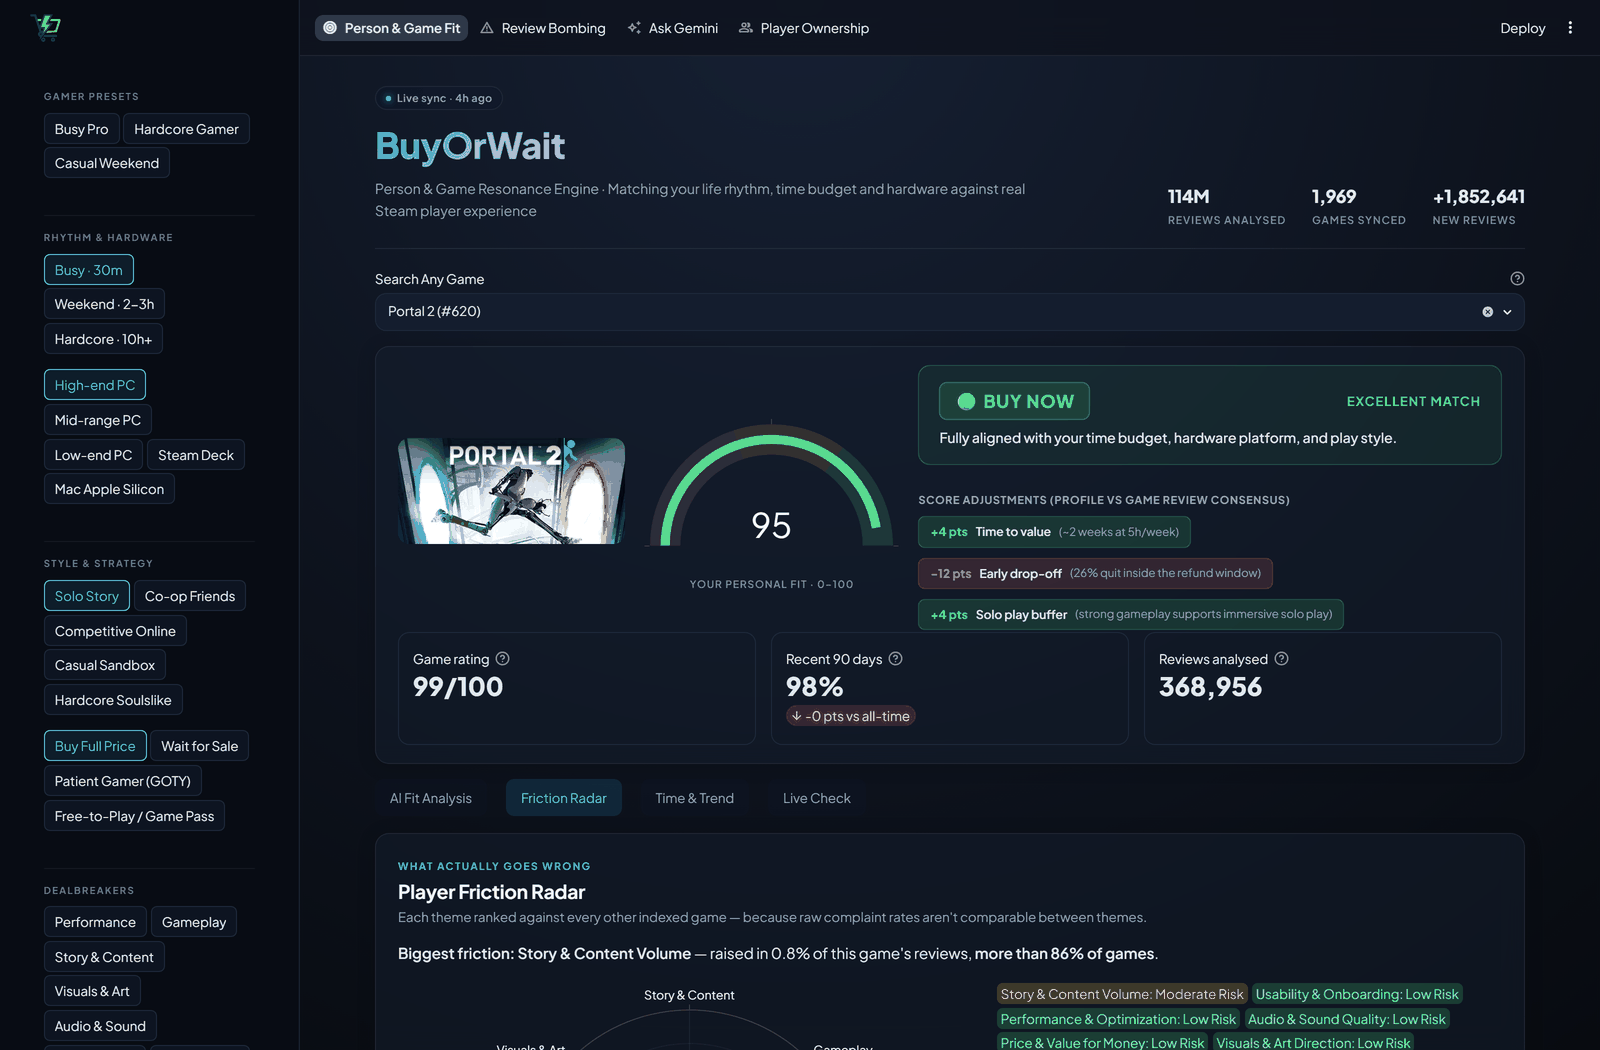
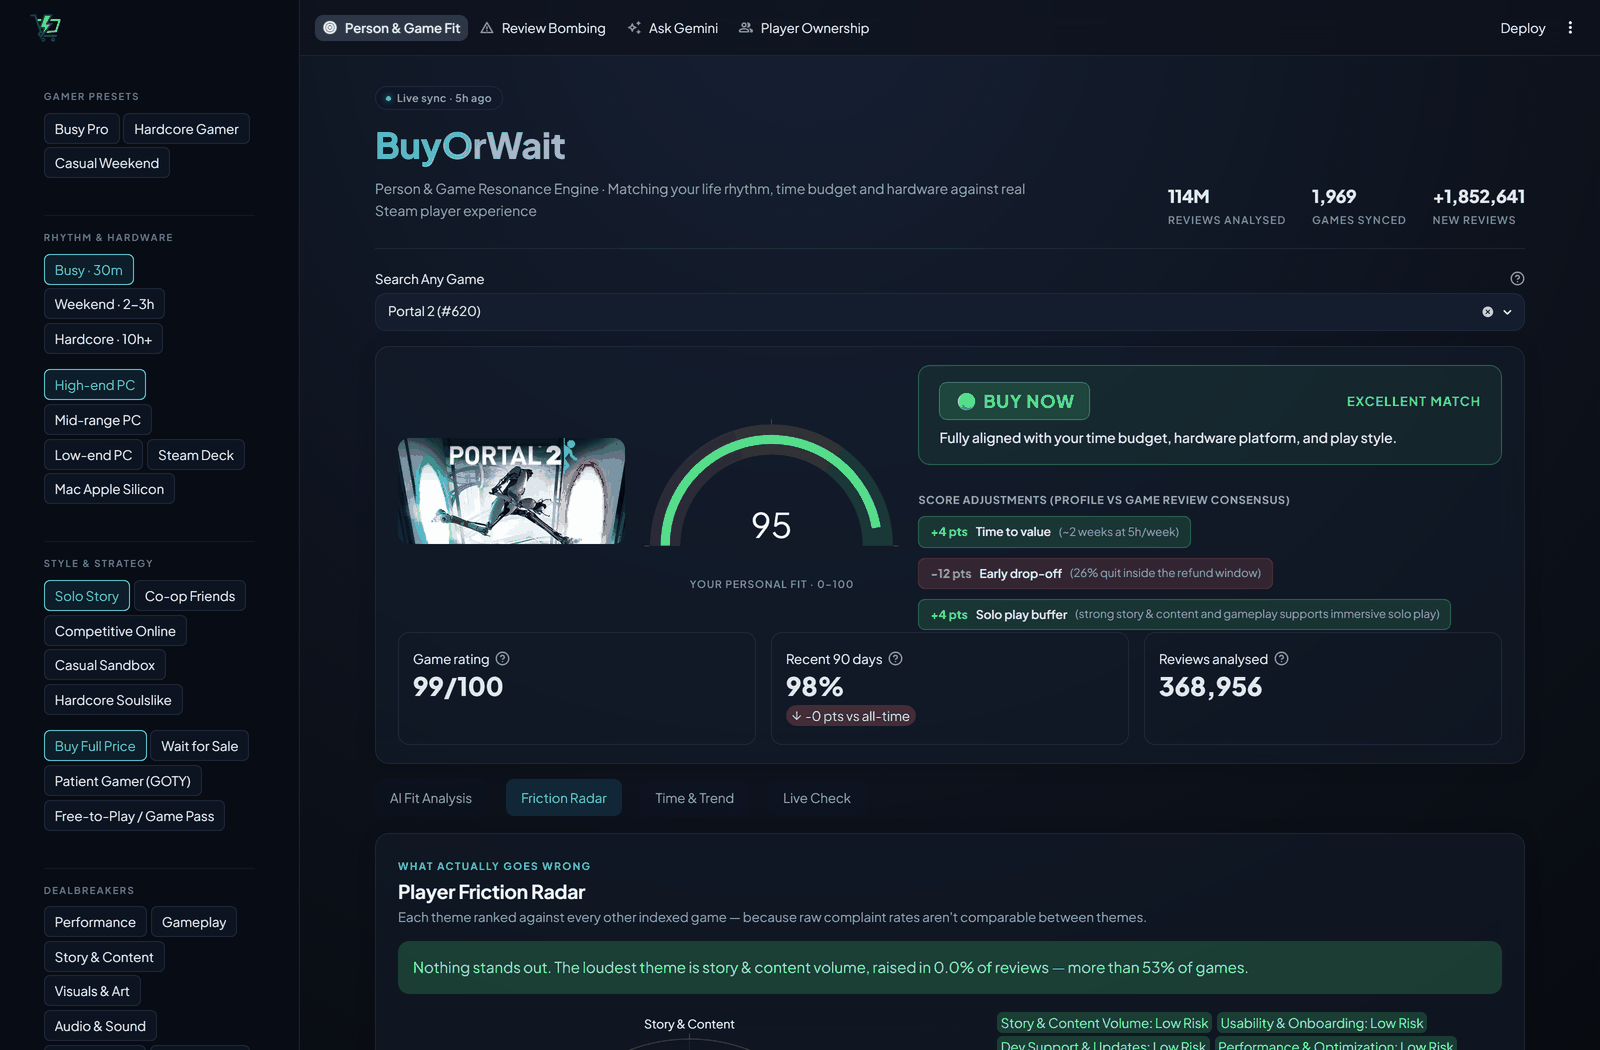
fix(radar): normalise friction against the real review population
The radar ranked the best-rated games as the most troubled. Measured over all 349
indexed games, a game's worst-dimension percentile correlated +0.22 with its own
purchase-confidence score — the wrong sign. Overwatch 2 (score 15.7) came out clean
on all eight dimensions while The Walking Dead (98.7) was flagged High Risk.

The cause was not the semantic matching. embed_index.py builds review_vectors as a
deliberately BALANCED sample — `.groupby(["appid","pol"]).head(PER_GAME//2)` takes up
to 400 reviews of each polarity per game — so the positive/negative mix of the vector
table describes the sampler, not the game. Dividing on-topic negative matches by the
full vector count therefore measured the sampling: Portal 2's sample is 65% negative
and Overwatch 2's is 39%, the inverse of their real sentiment. A first guess that bad
games simply attract shorter, less articulate reviews was tested and rejected — mean
negative-review length correlates +0.003 with score.

Prevalence is now negative_rate x (on-topic negatives / ALL indexed negatives): the
severity term comes from raw_pos_rate in game_scores, computed over every review of
the game, and only the composition term — which theme the complaints are about — comes
from the sample, which is what a balanced sample can legitimately estimate. Three
normalisations were compared over the full corpus:

    matches / total_vectors  (before)   corr +0.224
    matches / negatives      (composition)  +0.136
[…]

diff --git a/app/app.py b/app/app.py
@@ -1368,15 +1368,25 @@ MODERATE_FLOOR = 0.5
 def radar_baseline() -> dict:
     """Per-theme distribution of complaint prevalence across every indexed game.
 
-    A single flat threshold cannot grade these axes. Measured over all 349 indexed
-    games, "Dev Support & Updates" clears 3% of reviews in 226 of them while
-    "Server & Disconnects" clears it in 14 — so a 3% rule called two thirds of all
-    games High Risk on one axis and almost none on another, and every radar came out
-    the same shape. Grading each axis against its own corpus spread is what makes the
-    shape carry information.
+    Two things this has to get right.
+
+    1. Each axis is graded against its own spread, never a flat share. The themes have
+       base rates that differ by an order of magnitude, so one fixed threshold grades
+       every game identically and every radar comes out the same shape.
+
+    2. The prevalence is `negative_rate x (on-topic negatives / ALL indexed negatives)`,
+       NOT `on-topic negatives / all indexed vectors`. review_vectors is a deliberately
+       balanced sample — embed_index.py takes up to PER_GAME/2 reviews of each polarity
+       per game — so its positive/negative mix reflects the sampler, not the game.
+       Dividing by the full vector count therefore measured the sampling: Portal 2's
+       sample is 65% negative and Overwatch 2's is 39%, the inverse of reality, and the
+       radar ranked the best-rated games as the most troubled. Measured over 349 games,
+       the worst-axis percentile correlated +0.22 with the game's own score; taking the
+       negative rate from game_scores (computed over all 114M reviews) and only the
+       topic composition from the sample turns that to -0.44.
 
     Returns {dim: [101 ascending percentile boundaries]}; {} if the query fails, in
-    which case the caller falls back to raw share.
+    which case the caller falls back to DEFAULT_BASELINE.
     """
     struct_params = [
         bigquery.StructQueryParameter(
@@ -1391,7 +1401,7 @@ def radar_baseline() -> dict:
         maximum_bytes_billed=8 * 1024 ** 3)
     sql = f"""
         WITH v AS (SELECT appid, embedding, voted_up FROM {T('review_vectors')}),
-        tot AS (SELECT appid, COUNT(*) AS n FROM v GROUP BY appid),
+        neg AS (SELECT appid, COUNTIF(NOT voted_up) AS n_neg FROM v GROUP BY appid),
         d AS (
           SELECT q.dim AS dim, v.appid AS appid,
                  COUNTIF(ML.DISTANCE(v.embedding, q.qv, 'COSINE') < {STRONG_DIST}) AS strong
@@ -1399,8 +1409,15 @@ def radar_baseline() -> dict:
           WHERE v.voted_up = FALSE
           GROUP BY dim, appid
         )
-        SELECT d.dim, APPROX_QUANTILES(SAFE_DIVIDE(d.strong, t.n) * 100, 100) AS qs
-        FROM d JOIN tot t USING (appid) GROUP BY d.dim"""
+        SELECT d.dim,
+               APPROX_QUANTILES(
+                 (1 - s.raw_pos_rate / 100) * SAFE_DIVIDE(d.strong, n.n_neg) * 100,
+                 100) AS qs
+        FROM d
+        JOIN neg n USING (appid)
+        JOIN {T('game_scores')} s USING (appid)
+        WHERE s.raw_pos_rate IS NOT NULL AND n.n_neg > 0
+        GROUP BY d.dim"""
     try:
         df = _client().query(sql, job_config=cfg).to_dataframe()
     except Exception:
@@ -1408,15 +1425,29 @@ def radar_baseline() -> dict:
     return {r.dim: [float(x) for x in r.qs] for r in df.itertuples()}
 
 
+# Fallback used only when radar_baseline()'s query fails. These are the real measured
+# deciles (p0, p10 ... p100) over all 349 indexed games, not straight lines: the true
+# distributions are steeply skewed — Gameplay's median is 2.4% while Usability's is 0.0%
+# — so a linear ramp put every game in roughly the same percentile band, which is the
+# failure mode this whole baseline exists to avoid. Regenerate from radar_baseline() if
+# the dimension set or STRONG_DIST changes.
 DEFAULT_BASELINE = {
-    "Performance & Optimization": [i * 0.20 for i in range(101)],
-    "Gameplay & Controls": [i * 0.15 for i in range(101)],
-    "Story & Content Volume": [i * 0.12 for i in range(101)],
-    "Visuals & Art Direction": [i * 0.08 for i in range(101)],
-    "Audio & Sound Quality": [i * 0.06 for i in range(101)],
-    "Price & Value for Money": [i * 0.18 for i in range(101)],
-    "Dev Support & Updates": [i * 0.22 for i in range(101)],
-    "Usability & Onboarding": [i * 0.10 for i in range(101)],
+    "Performance & Optimization":
+        [0.0, 0.029, 0.066, 0.116, 0.204, 0.291, 0.478, 0.690, 1.261, 2.419, 8.068],
+    "Gameplay & Controls":
+        [0.044, 0.679, 1.087, 1.537, 1.956, 2.438, 3.167, 4.327, 5.897, 7.532, 19.466],
+    "Story & Content Volume":
+        [0.0, 0.0, 0.0, 0.0, 0.019, 0.039, 0.060, 0.097, 0.180, 0.308, 1.851],
+    "Visuals & Art Direction":
+        [0.0, 0.041, 0.072, 0.118, 0.173, 0.227, 0.324, 0.453, 0.674, 1.270, 4.339],
+    "Audio & Sound Quality":
+        [0.0, 0.071, 0.156, 0.242, 0.322, 0.460, 0.632, 0.825, 1.240, 1.991, 4.890],
+    "Price & Value for Money":
+        [0.078, 0.530, 0.746, 1.020, 1.426, 2.086, 2.694, 3.488, 4.866, 7.207, 19.255],
+    "Dev Support & Updates":
+        [0.0, 0.0, 0.0, 0.0, 0.014, 0.031, 0.050, 0.086, 0.128, 0.222, 2.515],
+    "Usability & Onboarding":
+        [0.0, 0.0, 0.0, 0.0, 0.0, 0.0, 0.0, 0.004, 0.024, 0.050, 0.594],
 }
 
 
@@ -1494,7 +1525,13 @@ def friction_radar(appid: int) -> tuple[dict, list]:
         SELECT dim,
                COUNTIF(dist < {STRONG_DIST}) AS strong,
                ARRAY_AGG(text ORDER BY dist LIMIT 3) AS texts,
-               (SELECT COUNT(*) FROM {T('review_vectors')} WHERE appid = @a) AS total_vec
+               -- Per polarity, never the combined count: review_vectors is a balanced
+               -- sample (embed_index caps each polarity separately), so the totals ratio
+               -- describes the sampler rather than the game. See radar_baseline.
+               (SELECT COUNTIF(NOT voted_up) FROM {T('review_vectors')}
+                 WHERE appid = @a) AS n_neg,
+               (SELECT COUNTIF(voted_up) FROM {T('review_vectors')}
+                 WHERE appid = @a) AS n_pos
         FROM scored GROUP BY dim"""
     try:
         df = _client().query(sql, job_config=cfg).to_dataframe()
@@ -1506,7 +1543,7 @@ def friction_radar(appid: int) -> tuple[dict, list]:
     # Fetch real behavioral telemetry data
     try:
         telemetry = q(f"""
-            SELECT s.refund_zone_pct, s.pos_median_hours, c.purchase_pct,
+            SELECT s.refund_zone_pct, s.pos_median_hours, s.raw_pos_rate, c.purchase_pct,
                    (SELECT COUNT(*) FROM {T('alerts')} WHERE appid = @a) AS alert_count
             FROM {T('game_scores')} s
             LEFT JOIN {T('game_composition')} c ON s.appid = c.appid
@@ -1525,7 +1562,17 @@ def friction_radar(appid: int) -> tuple[dict, list]:
     days_since_last = dev_news.get("days_since_last")
     recent_patches = dev_news.get("recent_180d_patches", 0)
 
-    total = int(df.iloc[0].total_vec)
+    n_neg = int(df.iloc[0].n_neg)
+    n_pos = int(df.iloc[0].n_pos)
+    # Severity comes from the game's real all-time positive rate over every review, not
+    # from the balanced vector sample. Composition (which theme) comes from the sample,
+    # which is what it can legitimately estimate. Every indexed game has raw_pos_rate,
+    # so the fallback below is defensive only.
+    raw_pos = (float(telemetry.iloc[0].raw_pos_rate)
+               if not telemetry.empty and pd.notna(telemetry.iloc[0].raw_pos_rate)
+               else None)
+    neg_rate = 1.0 if raw_pos is None else max(0.0, 1.0 - raw_pos / 100.0)
+
     base = radar_baseline()
     counts = {r.dim: {"strong": int(r.strong), "texts": [str(t) for t in r.texts]} for r in df.itertuples()}
 
@@ -1534,8 +1581,13 @@ def friction_radar(appid: int) -> tuple[dict, list]:
         neg_item = counts.get(d, {"strong": 0, "texts": []})
         pos_item = counts.get(f"{d}__praise", {"strong": 0, "texts": []})
 
-        neg_share = 100.0 * neg_item["strong"] / total if total else 0.0
-        pos_share = 100.0 * pos_item["strong"] / total if total else 0.0
+        # P(review is negative) x P(theme | negative) -> "% of ALL this game's reviews
+        # that are a negative review about this theme", which is what the UI claims.
+        neg_share = (neg_rate * 100.0 * neg_item["strong"] / n_neg) if n_neg else 0.0
+        # Praise stays a pure within-positives composition: it is only used as a
+        # discount heuristic below, and scaling it by the positive rate too would
+        # re-tune thresholds that were set against the unscaled value.
+        pos_share = (100.0 * pos_item["strong"] / n_pos) if n_pos else 0.0
 
         # Calculate raw friction percentile from baseline quantiles
         fric_pctl = radar_percentile(neg_share, base.get(d, []), d)
